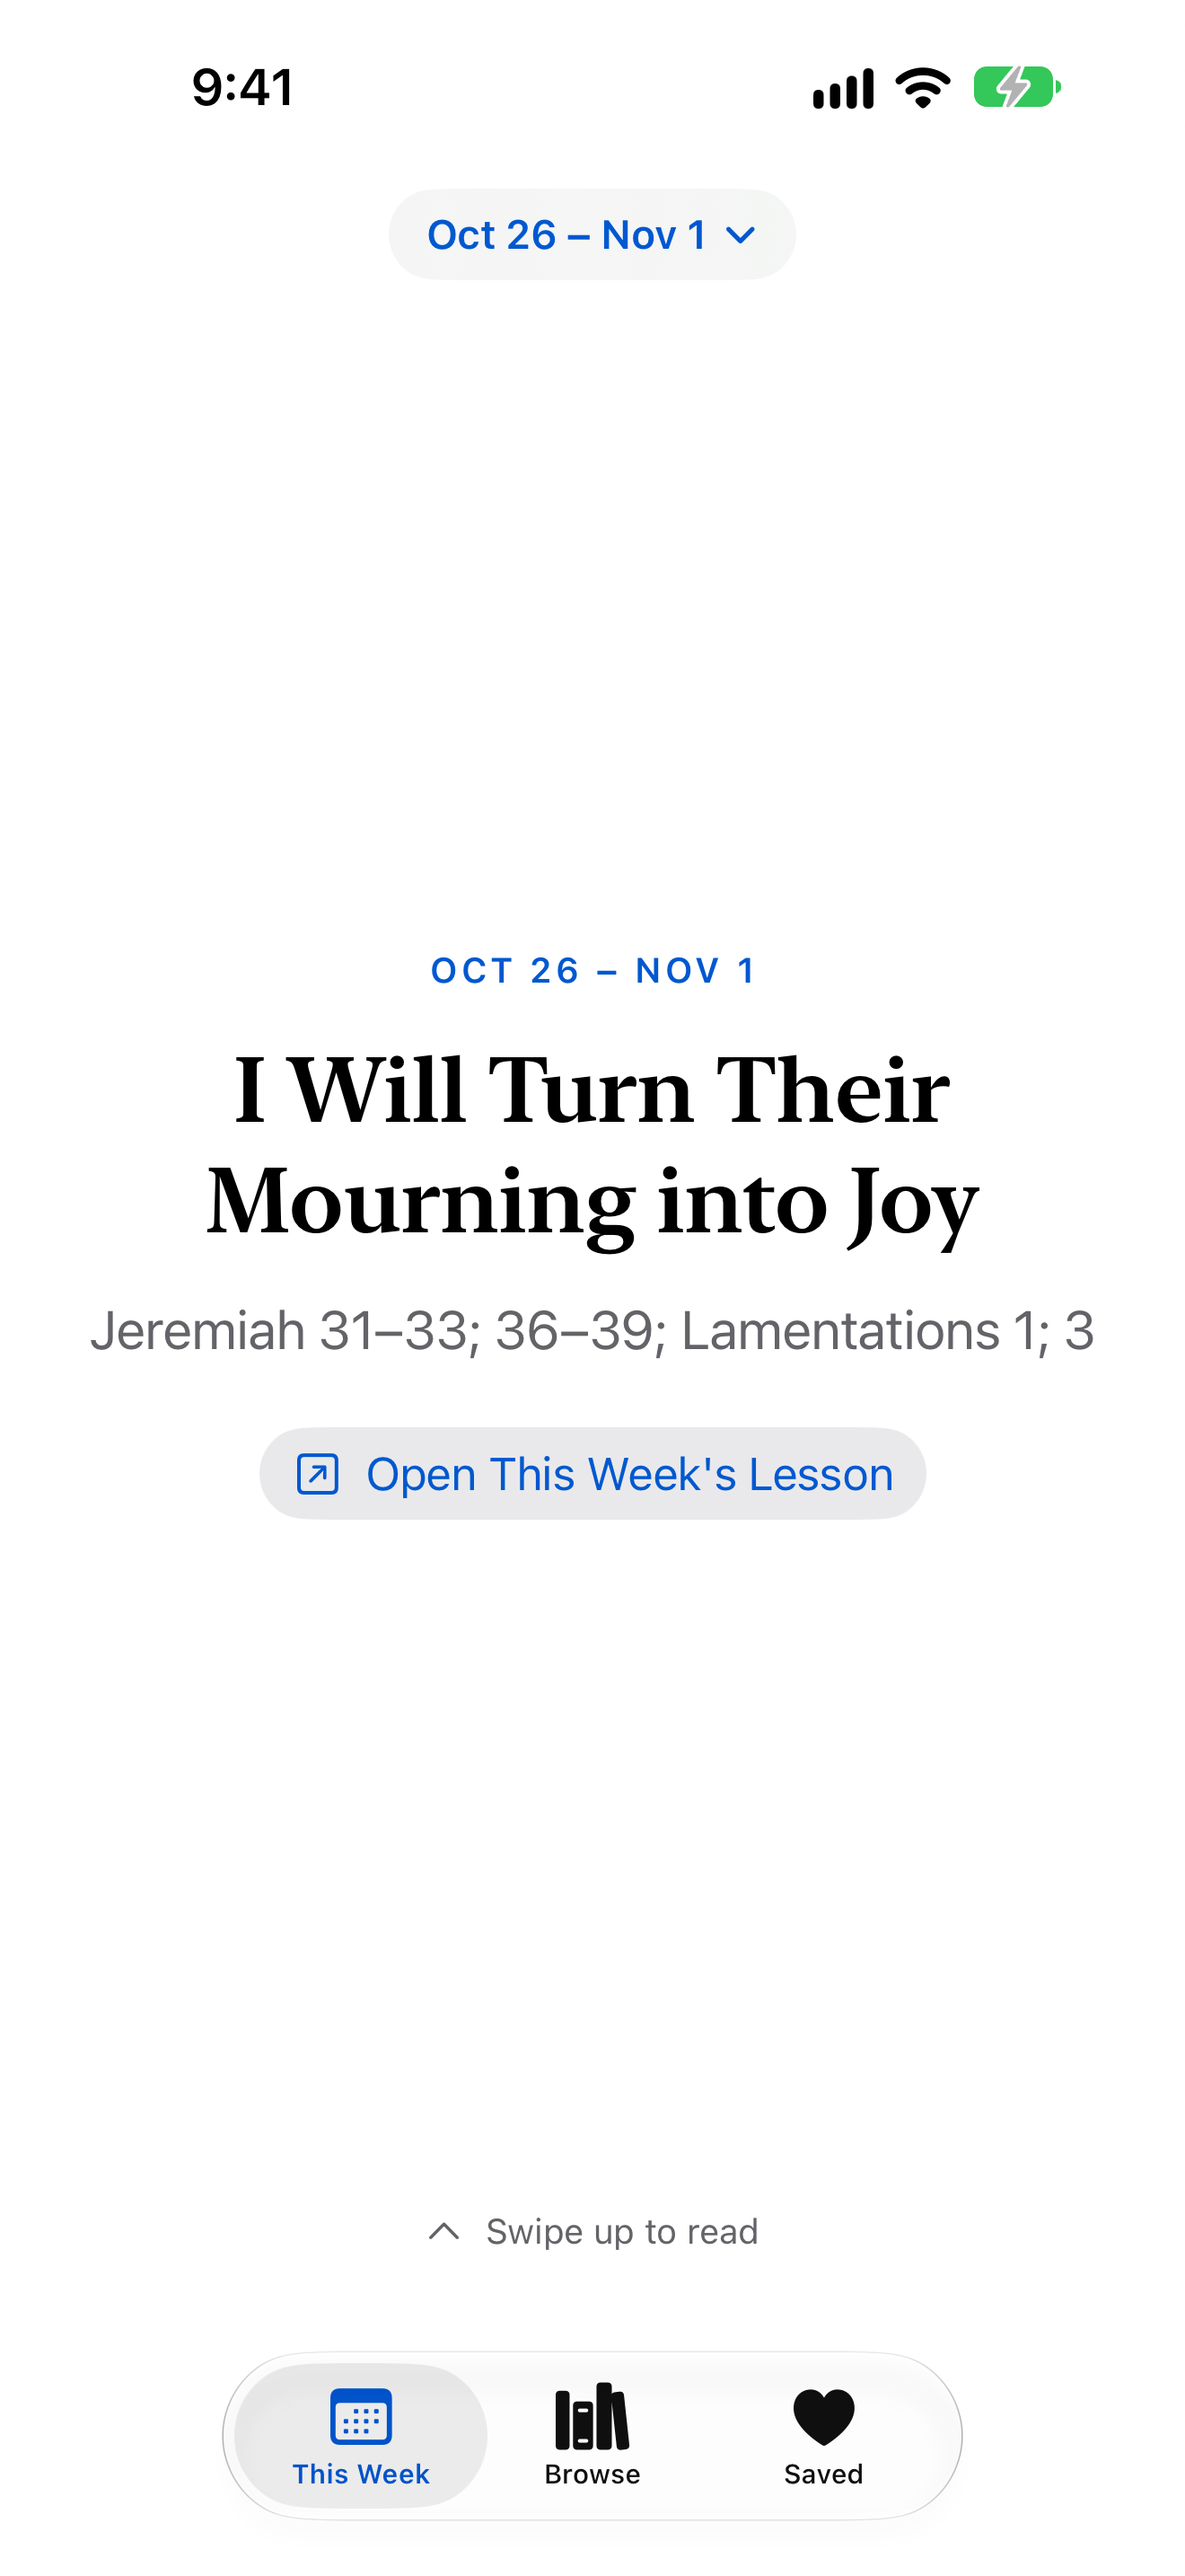
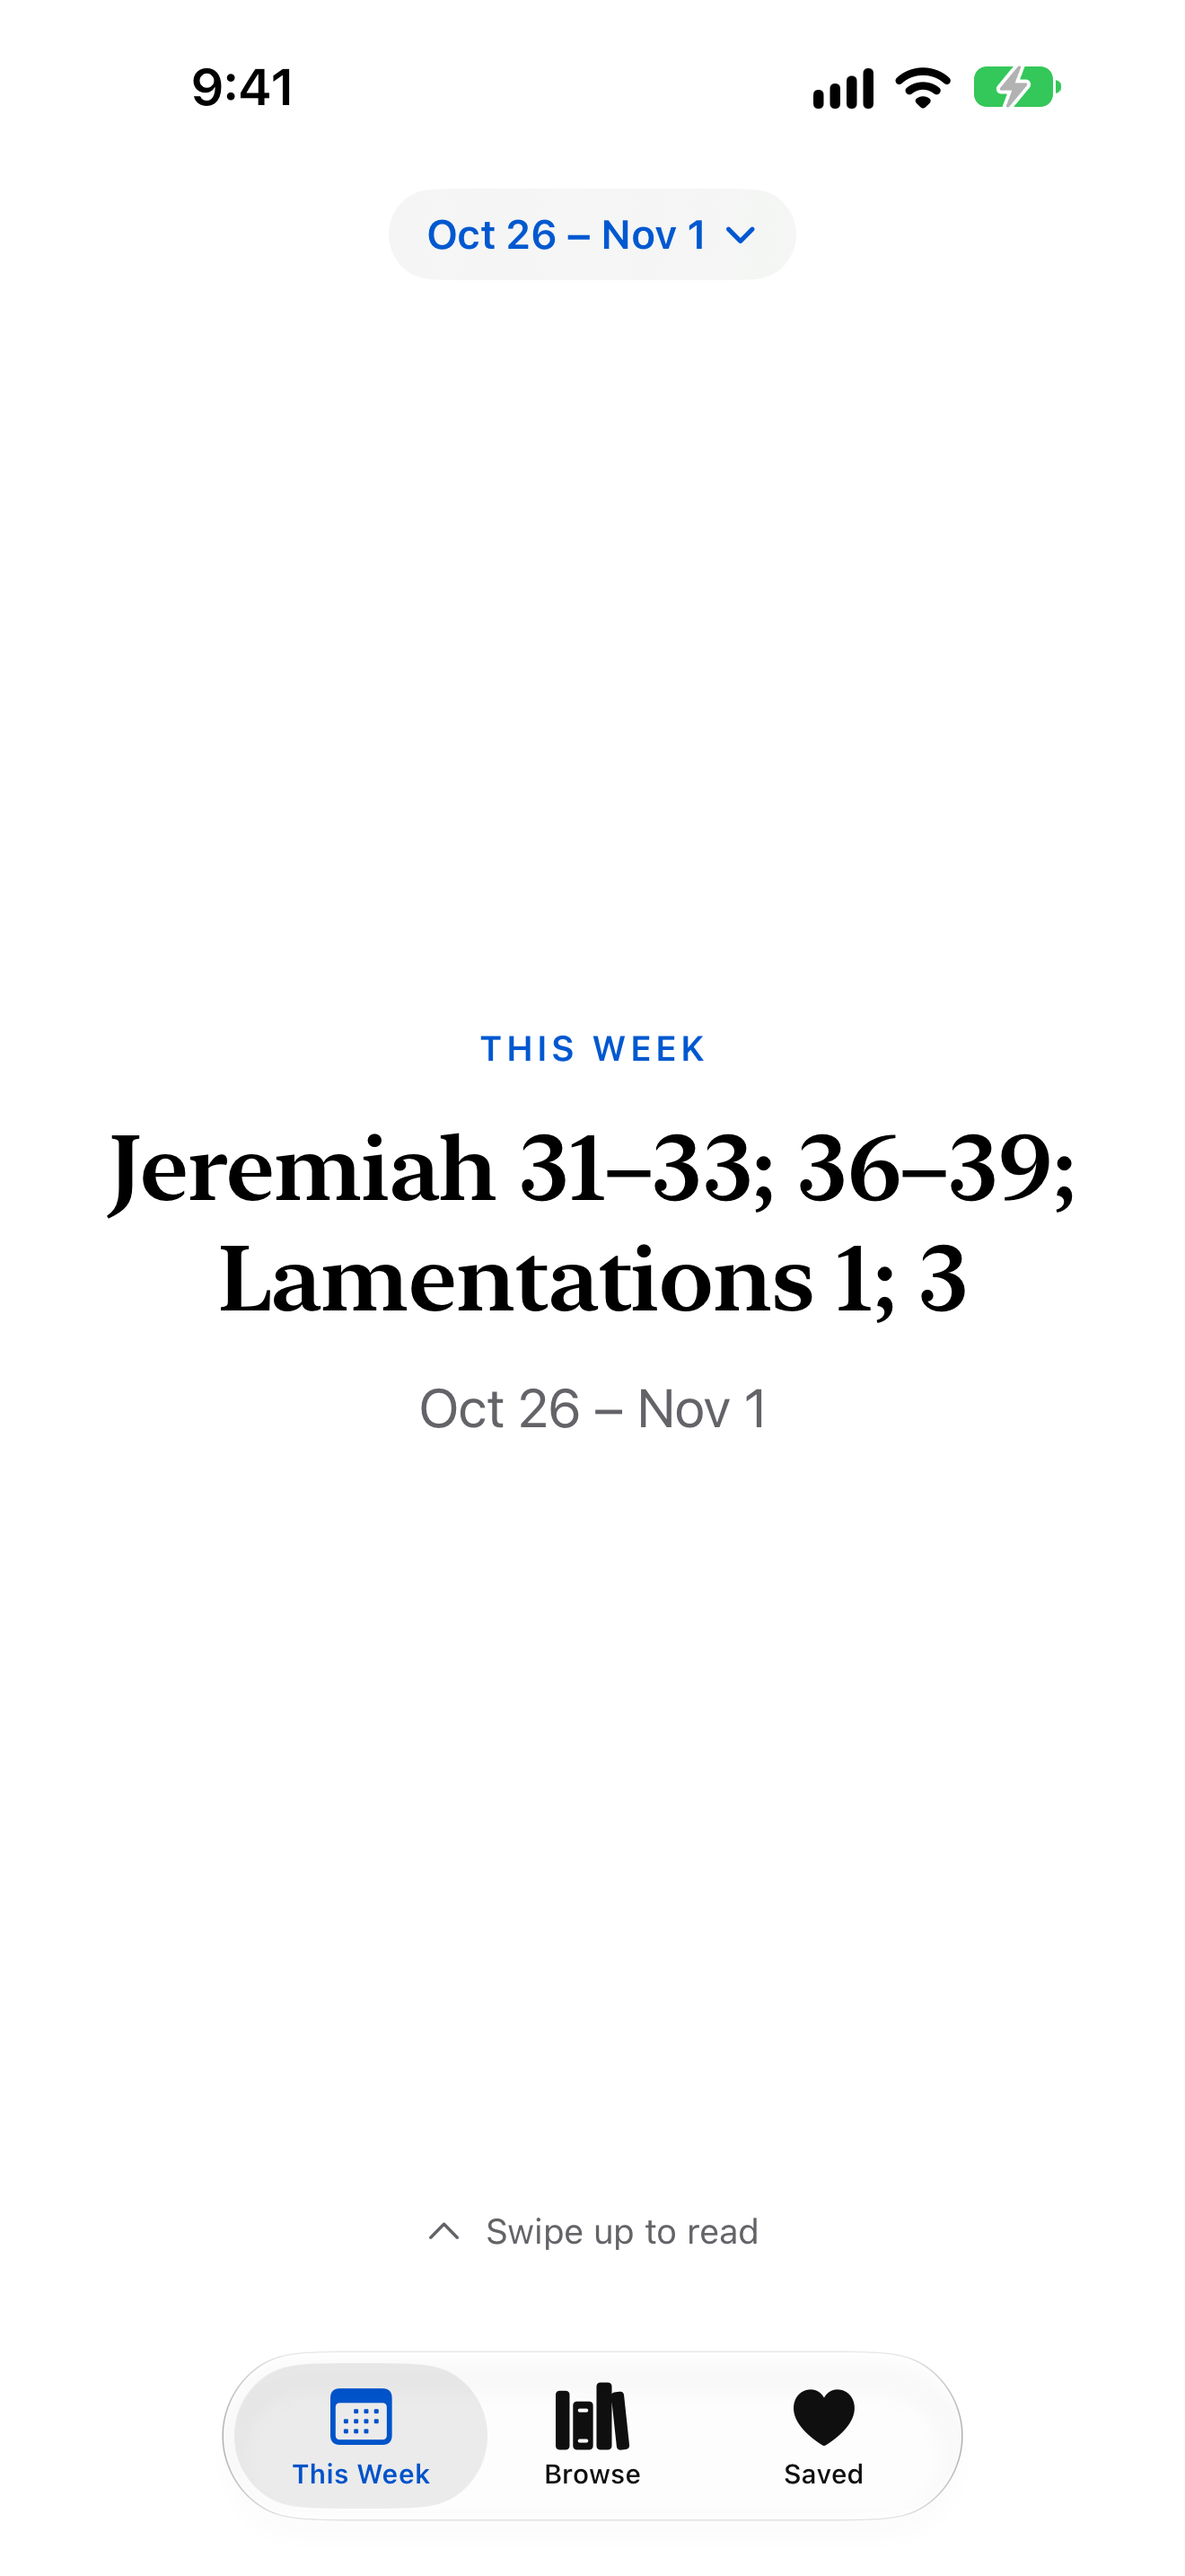
Fix the This Week card swipe on iPad, link the new privacy page, retake This Week screenshot
The card needed a swipe of a third of the screen, too far in the tall
window iPhone apps get on iPad. Cap it at 250 points.

diff --git a/Versed/Features/Feed/FeedView.swift b/Versed/Features/Feed/FeedView.swift
@@ -82,10 +82,12 @@ struct FeedView: View {
     }
 
     /// The first page, laid over the feed. It follows the reader's finger up, like a page of the
-    /// feed, and a swipe past a third of the screen sends it off the top.
+    /// feed, and a swipe past a third of the screen sends it off the top. The distance is capped
+    /// so the same swipe works in a tall window, like an iPhone app running on an iPad.
     private func cover(showing item: FeedItem) -> some View {
         GeometryReader { geometry in
             let height = geometry.size.height
+            let dismissDistance = min(height / 3, 250)
             page(for: item, savedIDs: [])
                 .frame(maxWidth: .infinity, maxHeight: .infinity)
                 .overlay(alignment: .bottom) { swipeHint }
@@ -98,7 +100,7 @@ struct FeedView: View {
                             coverOffset = min(0, drag.translation.height)
                         }
                         .onEnded { drag in
-                            if min(drag.translation.height, drag.predictedEndTranslation.height) < -height / 3 {
+                            if min(drag.translation.height, drag.predictedEndTranslation.height) < -dismissDistance {
                                 dismissCover(height: height)
                             } else {
                                 withAnimation(reduceMotion ? nil : .snappy) { coverOffset = 0 }

diff --git a/Versed/Features/Settings/AboutSection.swift b/Versed/Features/Settings/AboutSection.swift
@@ -3,7 +3,7 @@ import SwiftUI
 /// The About part of Settings: who made the app, where the text comes from, privacy, and contact.
 struct AboutSection: View {
     static let scriptureSourceURL = URL(string: "https://github.com/bcbooks/scriptures-json")!
-    static let privacyPolicyURL = URL(string: "https://github.com/peyton-call-32/versed/blob/main/PRIVACY.md")!
+    static let privacyPolicyURL = URL(string: "https://peyton-call-32.github.io/versed/privacy/")!
     static let contactEmail = "peytoncall32@icloud.com"
 
     /// The only place the app names the Come, Follow Me schedule: a plain description, never a name

diff --git a/VersedTests/AboutSectionTests.swift b/VersedTests/AboutSectionTests.swift
@@ -9,7 +9,7 @@ struct AboutSectionTests {
     }
 
     @Test func linksPointToTheRightPlaces() {
-        #expect(AboutSection.privacyPolicyURL.lastPathComponent == "PRIVACY.md")
+        #expect(AboutSection.privacyPolicyURL.absoluteString == "https://peyton-call-32.github.io/versed/privacy/")
         #expect(AboutSection.scriptureSourceURL.path() == "/bcbooks/scriptures-json")
     }
 

diff --git a/docs/app-store/listing.md b/docs/app-store/listing.md
@@ -79,4 +79,4 @@ In `screenshots/`, 1320 × 2868 (the 6.9-inch iPhone size Apple requires; it shr
 3. `3-browse.png`: Browse, with Continue Reading
 4. `4-saved.png`: the Saved tab
 
-To retake them: run `testReadingSavingBrowsingAndResuming` on the iPhone 18 Pro Max simulator, with the status bar set to 9:41 and a full battery (`xcrun simctl status_bar booted override --time 9:41 --batteryState charged --batteryLevel 100`).
+To retake them: run `testReadingSavingBrowsingAndResuming` on the iPhone 18 Pro Max simulator, with the status bar set to 9:41 and a full battery (`xcrun simctl status_bar booted override --time 9:41 --batteryState charged --batteryLevel 100 --cellularMode active --cellularBars 4 --wifiBars 3`). The This Week shot is the test's `week-intro` attachment..
